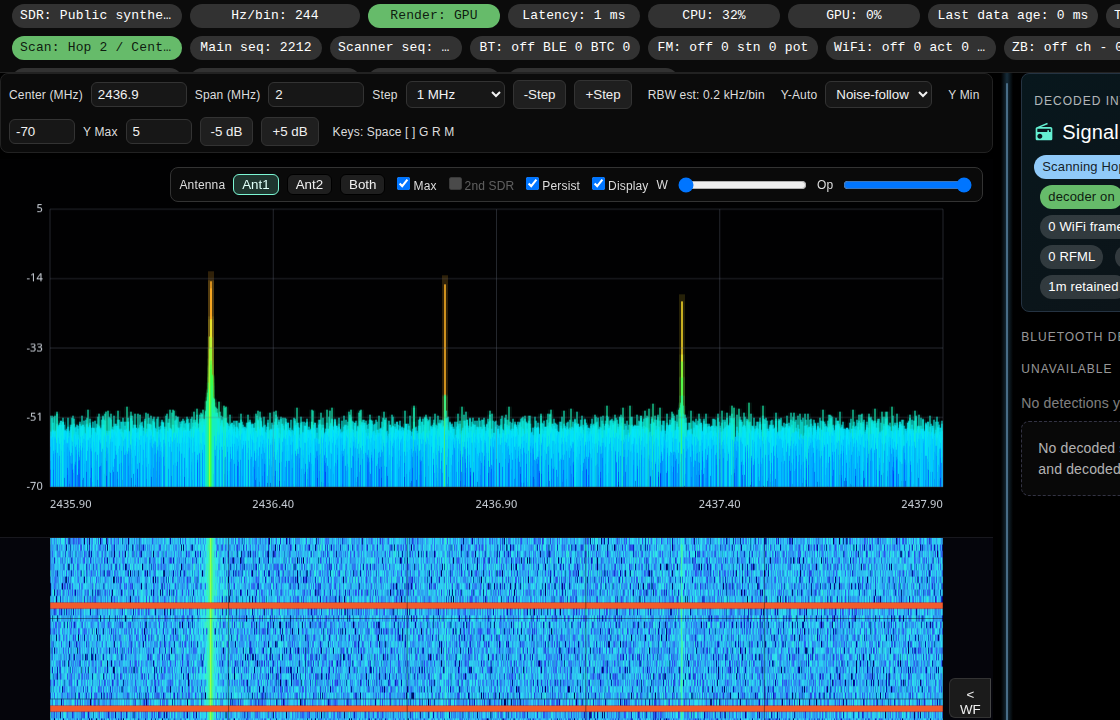
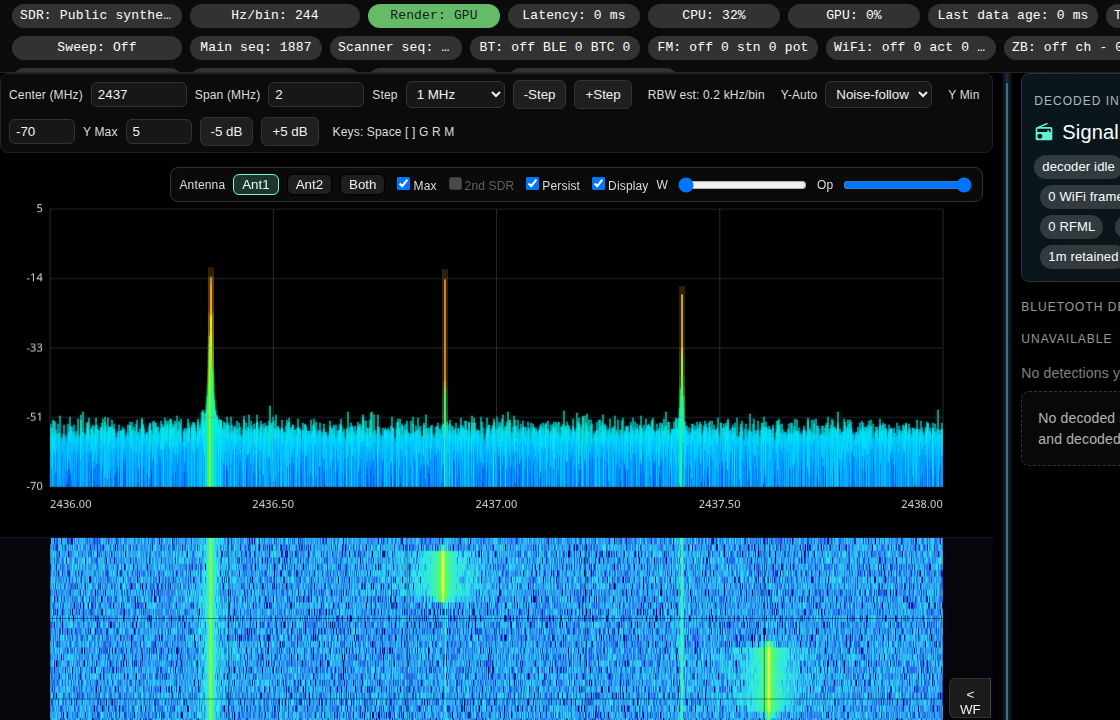
Show stationary frequency hopper in public demo

diff --git a/scripts/generate_demo_iq_session.py b/scripts/generate_demo_iq_session.py
@@ -42,6 +42,29 @@ def _burst_envelope(t: np.ndarray, centers: tuple[float, ...], width: float) -> 
     return np.clip(env, 0.0, 1.0)
 
 
+def _frequency_hopper(t: np.ndarray, duration: float) -> np.ndarray:
+    """Stationary receiver view of a public-safe frequency-hopping emitter."""
+    hop_offsets = np.array(
+        [-720_000.0, -360_000.0, 180_000.0, 610_000.0, -120_000.0, 430_000.0, -540_000.0, 760_000.0],
+        dtype=np.float64,
+    )
+    hop_period = 0.18
+    hop_active_start = min(7.0, max(0.0, duration * 0.24))
+    hop_active_stop = max(hop_active_start + 1.0, duration - 2.0)
+    relative = np.maximum(0.0, t - hop_active_start)
+    hop_index = np.floor(relative / hop_period).astype(np.int64) % hop_offsets.size
+    local = np.mod(relative, hop_period)
+    duty = hop_period * 0.62
+    edge = hop_period * 0.08
+    on = (t >= hop_active_start) & (t <= hop_active_stop) & (local <= duty)
+    rise = np.clip(local / max(edge, 1e-6), 0.0, 1.0)
+    fall = np.clip((duty - local) / max(edge, 1e-6), 0.0, 1.0)
+    envelope = np.where(on, np.minimum(rise, fall), 0.0).astype(np.float32)
+    symbol_wobble = 0.14 * np.sin(2.0 * np.pi * t * 37.0)
+    phase = hop_offsets[hop_index] * t + symbol_wobble
+    return (0.30 * envelope * np.exp(2j * np.pi * phase)).astype(np.complex64)
+
+
 def _quantize_cs8(iq: np.ndarray) -> bytes:
     real = np.clip(np.real(iq), -0.98, 0.98)
     imag = np.clip(np.imag(iq), -0.98, 0.98)
@@ -88,6 +111,7 @@ def _chunk_iq(
 
     lower_burst = _burst_envelope(np.mod(t + 0.35, duration), (6.3, 14.4, 22.2, 28.6), width=0.12)
     iq = iq + (0.17 * lower_burst * np.exp(2j * np.pi * (-360_000.0 * t + 0.11))).astype(np.complex64)
+    iq = iq + _frequency_hopper(t, duration)
     return iq.astype(np.complex64, copy=False)
 
 
@@ -102,6 +126,7 @@ def _existing_session_matches(metadata: dict[str, object], args: argparse.Namesp
         and int(stream.get("sample_rate_sps") or 0) == int(round(float(args.sample_rate)))
         and int(stream.get("bandwidth_hz") or 0) == int(round(float(args.bandwidth)))
         and float(metadata.get("replay_preview_scale") or 0.0) == DEFAULT_REPLAY_PREVIEW_SCALE
+        and int(dict(metadata.get("generator") or {}).get("version") or 0) == 2
     )
 
 
@@ -186,9 +211,9 @@ def generate_session(args: argparse.Namespace) -> dict[str, object]:
         "replay_preview_scale": DEFAULT_REPLAY_PREVIEW_SCALE,
         "generator": {
             "name": "scripts/generate_demo_iq_session.py",
-            "version": 1,
+            "version": 2,
             "public_safe": True,
-            "description": "Deterministic synthetic tones, noise-floor motion, and burst clusters; no recorded RF environment data.",
+            "description": "Deterministic synthetic tones, noise-floor motion, burst clusters, and a stationary-view Bluetooth-like frequency-hopping emitter; no recorded RF environment data.",
         },
     }
     metadata_path.write_text(json.dumps(metadata, indent=2), encoding="utf-8")

diff --git a/backend/tests/test_demo_iq_session.py b/backend/tests/test_demo_iq_session.py
@@ -41,6 +41,8 @@ def test_generate_demo_iq_session_creates_replay_fixture(tmp_path):
     assert metadata["stream"]["center_freq_hz"] == generator.DEFAULT_CENTER_HZ
     assert metadata["stream"]["sample_rate_sps"] == 200000
     assert metadata["replay_preview_scale"] == generator.DEFAULT_REPLAY_PREVIEW_SCALE
+    assert metadata["generator"]["version"] == 2
+    assert "Bluetooth-like frequency-hopping emitter" in metadata["generator"]["description"]
     assert metadata["chunks"] > 0
     assert metadata["bytes"] > 0
     assert capture_path.stat().st_size == metadata["bytes"]

diff --git a/README.md b/README.md
@@ -11,11 +11,11 @@ The project demonstrates the system layer around RF ML: live device streaming, b
 
 The project is intended for lawful RF engineering, lab validation, education, spectrum monitoring, and passive signal-awareness workflows. Operators are responsible for complying with all applicable radio, privacy, and computer misuse laws in their jurisdiction.
 
-![SDR-Shark public Docker demo scanner hopping sequence](docs/media/sdr-shark-demo.gif)
+![SDR-Shark public Docker demo frequency-hopping signal](docs/media/sdr-shark-demo.gif)
 
 ## Public Demo Mode
 
-SDR-Shark includes a hardware-free public demo that generates deterministic synthetic IQ replay data locally. The demo is public-safe: it shows a scanner-driven hopping sequence, tones, moving noise floor, and burst activity without committing real RF captures or requiring SDR hardware.
+SDR-Shark includes a hardware-free public demo that generates deterministic synthetic IQ replay data locally. The demo is public-safe: it shows a stationary receiver watching a Bluetooth-like frequency-hopping emitter move across the passband, along with tones, moving noise floor, and burst activity, without committing real RF captures or requiring SDR hardware.
 
 Portfolio case study: [RTG Spectrum SDR-Shark](https://rtgspectrum.com/sdr-shark/)
 
@@ -60,7 +60,7 @@ See [docs/demo.md](docs/demo.md) for API checks, troubleshooting, and replay det
 ## What This Proves
 
 - One-command Docker path for reviewers, customers, and collaborators.
-- Scanner-driven hop sequence across synthetic 2.4 GHz dwell steps.
+- Stationary receiver view of a Bluetooth-like frequency-hopping 2.4 GHz emitter.
 - Browser-based spectrum and waterfall UI driven by replayed IQ.
 - Backend FFT, max-hold, persistence, and replay session plumbing.
 - Hardware-aware SDR architecture that can run live, gateway-backed, or replay-backed.
@@ -68,7 +68,7 @@ See [docs/demo.md](docs/demo.md) for API checks, troubleshooting, and replay det
 
 ## Public Demo Evidence
 
-The captures below were generated from the Docker demo using the synthetic `public-demo-2p4ghz` replay session and a short public demo scanner hop plan.
+The captures below were generated from the Docker demo using the synthetic `public-demo-2p4ghz` replay session. The receiver stays centered while the synthetic Bluetooth-like emitter hops across the passband.
 
 | Live replay dashboard | Spectrum and waterfall detail | Signal activity panel |
 |---|---|---|

diff --git a/docs/demo.md b/docs/demo.md
@@ -1,6 +1,6 @@
 # SDR-Shark Public Demo Mode
 
-SDR-Shark can run a hardware-free public demo using deterministic synthetic IQ replay data. The demo data is generated locally and is public-safe: it contains a scanner-driven hopping sequence, synthetic tones, noise-floor movement, and burst activity, not captured RF from a real environment.
+SDR-Shark can run a hardware-free public demo using deterministic synthetic IQ replay data. The demo data is generated locally and is public-safe: it contains a stationary receiver view of a Bluetooth-like frequency-hopping emitter, synthetic tones, noise-floor movement, and burst activity, not captured RF from a real environment.
 
 Public case study: [RTG Spectrum SDR-Shark](https://rtgspectrum.com/sdr-shark/)
 
@@ -49,7 +49,7 @@ Stop the demo with:
 ## What The Demo Shows
 
 - A replay-backed SDR source centered at 2.437 GHz.
-- A scanner-driven hop sequence across synthetic 2.4 GHz dwell steps.
+- A stationary receiver view of a Bluetooth-like frequency-hopping 2.4 GHz emitter.
 - A live FFT trace with a moving noise floor and multiple synthetic carriers.
 - Waterfall activity with short burst clusters.
 - Max-hold and persistence behavior from repeatable signal movement.
@@ -80,7 +80,7 @@ Successful demo replay should show `active: true` from `/api/iq/replay/status` a
 
 ## Public Demo Media
 
-The checked-in demo media was captured from the Docker demo using the synthetic `public-demo-2p4ghz` replay session and a short public demo scanner hop plan:
+The checked-in demo media was captured from the Docker demo using the synthetic `public-demo-2p4ghz` replay session. The receiver stays centered while the synthetic Bluetooth-like emitter hops across the passband:
 
 - [Replay GIF](media/sdr-shark-demo.gif)
 - [Full dashboard screenshot](media/sdr-shark-public-demo-dashboard.png)
